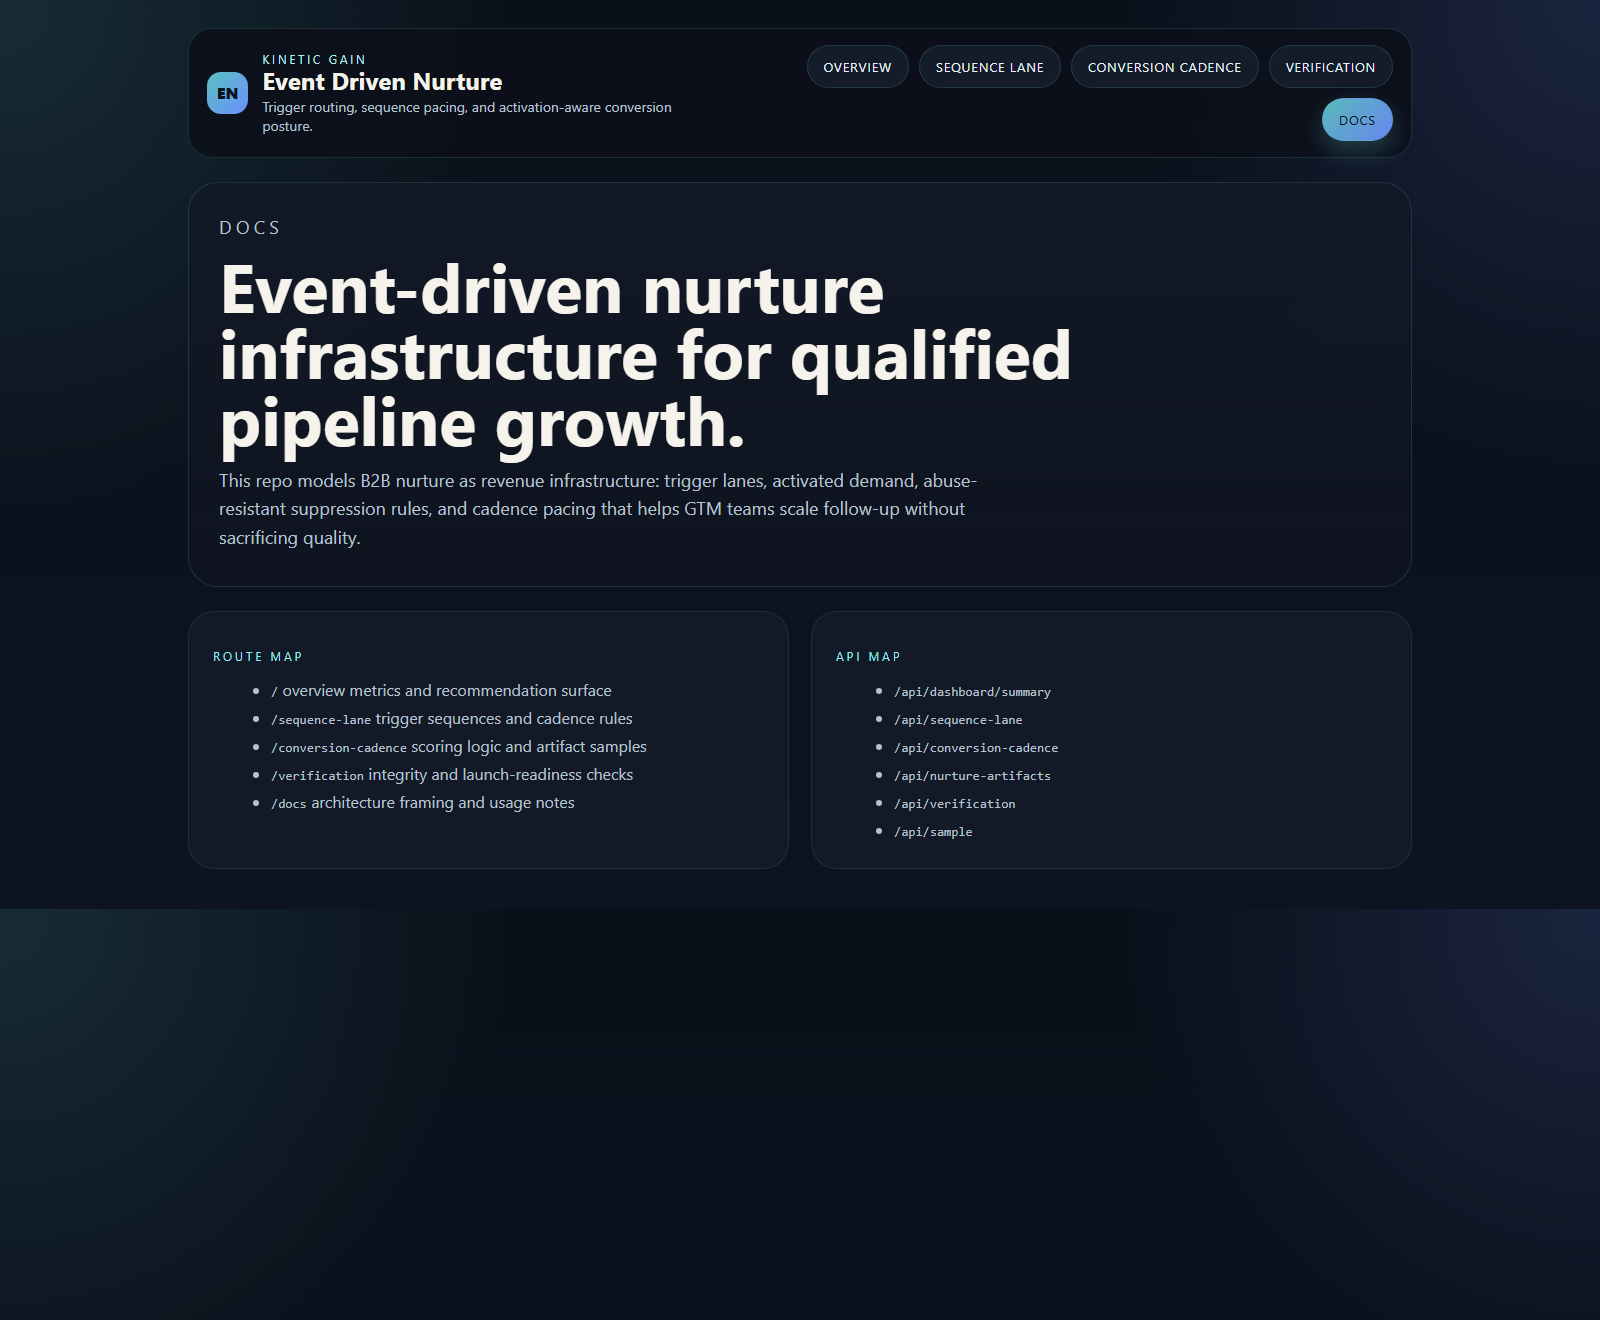
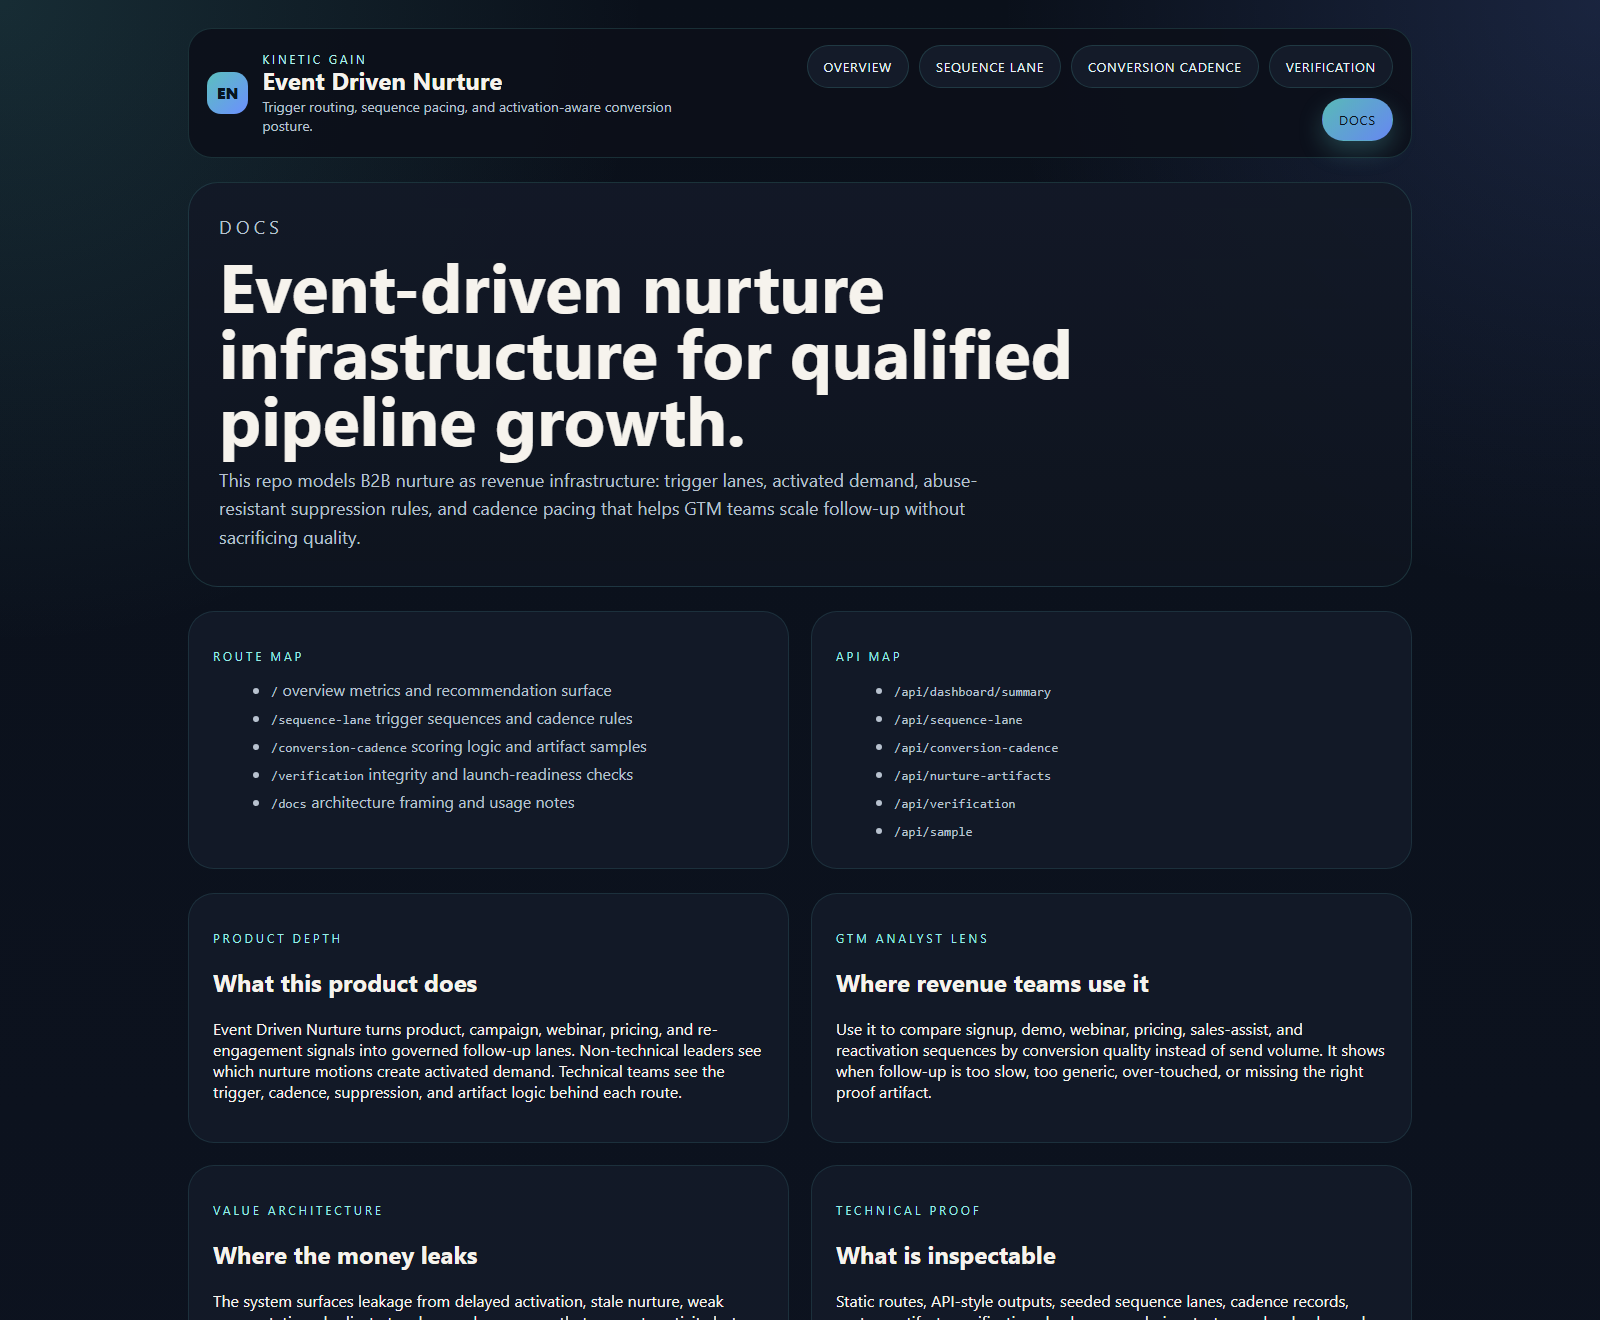
Deepen event nurture proof surface

diff --git a/src/services/render.ts b/src/services/render.ts
@@ -156,6 +156,37 @@ function healthPill(health: "healthy" | "watch" | "critical") {
   return `<span class="pill ${cls}">${health}</span>`;
 }
 
+function renderProductDepth() {
+  return `
+    <section class="content-grid">
+      <article class="panel span-6">
+        <p class="panel-title">Product depth</p>
+        <h2>What this product does</h2>
+        <p>Event Driven Nurture turns product, campaign, webinar, pricing, and re-engagement signals into governed follow-up lanes. Non-technical leaders see which nurture motions create activated demand. Technical teams see the trigger, cadence, suppression, and artifact logic behind each route.</p>
+      </article>
+      <article class="panel span-6">
+        <p class="panel-title">GTM analyst lens</p>
+        <h2>Where revenue teams use it</h2>
+        <p>Use it to compare signup, demo, webinar, pricing, sales-assist, and reactivation sequences by conversion quality instead of send volume. It shows when follow-up is too slow, too generic, over-touched, or missing the right proof artifact.</p>
+      </article>
+      <article class="panel span-6">
+        <p class="panel-title">Value architecture</p>
+        <h2>Where the money leaks</h2>
+        <p>The system surfaces leakage from delayed activation, stale nurture, weak segmentation, duplicate touches, and sequences that generate activity but not qualified pipeline. Leaders can redirect spend toward the follow-up paths that actually compound demand.</p>
+      </article>
+      <article class="panel span-6">
+        <p class="panel-title">Technical proof</p>
+        <h2>What is inspectable</h2>
+        <p>Static routes, API-style outputs, seeded sequence lanes, cadence records, nurture artifacts, verification checks, prerendering, tests, smoke checks, and screenshot generation keep this as a real operator surface rather than generic marketing copy.</p>
+      </article>
+      <article class="panel span-12">
+        <p class="panel-title">Portfolio pattern</p>
+        <h2>What these repos have in common</h2>
+        <p>Each Kinetic Gain surface converts operational evidence into board-readable decisions: owner, signal, model, risk, value, route, and verification stay visible together.</p>
+      </article>
+    </section>`;
+}
+
 export function renderOverview() {
   const dashboard = summary();
   const sequences = sequenceLane();
@@ -246,6 +277,7 @@ export function renderOverview() {
         </div>
       </article>
     </section>
+    ${renderProductDepth()}
   `;
 
   return layout("Event Driven Nurture", "/", body);
@@ -290,6 +322,7 @@ Notes: ${item.notes}</div>
         </div>
       </article>
     </section>
+    ${renderProductDepth()}
   `;
 
   return layout("Event Driven Nurture - Sequence Lane", "/sequence-lane", body);
@@ -422,6 +455,7 @@ export function renderDocs() {
         </ul>
       </article>
     </section>
+    ${renderProductDepth()}
   `;
 
   return layout("Event Driven Nurture - Docs", "/docs", body);

diff --git a/README.md b/README.md
@@ -9,6 +9,18 @@ Board-ready Kinetic Gain surface for event-driven nurture sequencing, conversion
 
 Leaders need one nurture surface that shows which trigger paths are converting, which follow-up cadences are stalling, and where activation pressure should move before the next revenue push.
 
+## What this product does
+
+Event Driven Nurture turns product, campaign, webinar, pricing, and re-engagement signals into governed follow-up lanes. It connects trigger source, audience, cadence rule, suppression posture, sequence artifact, activation lift, and conversion quality in one operating view.
+
+For a SaaS go-to-market analyst, the product answers which nurture paths create activated demand, which ones only create activity, and where sales, marketing, product, or customer success should intervene before pipeline quality decays.
+
+For a SaaS value architect, it exposes where money leaks: delayed activation, stale nurture, weak segmentation, duplicate touches, missing proof artifacts, and sequences that increase volume without improving qualified conversion.
+
+For technical reviewers, the repo includes static routes, API-style outputs, seeded sequence data, cadence records, artifact samples, verification checks, prerendered pages, smoke tests, and screenshot generation. It is meant to demonstrate an inspectable operator surface, not a keyword-only landing page.
+
+This follows the broader Kinetic Gain pattern: every surface keeps owner, signal, model, risk, value, route, and verification visible together so non-technical and technical readers can understand what the system does and why it matters.
+
 ## What it includes
 
 - TypeScript control plane for event-driven nurture sequencing, trigger routing, follow-up pacing, and activation-aware conversion loops
